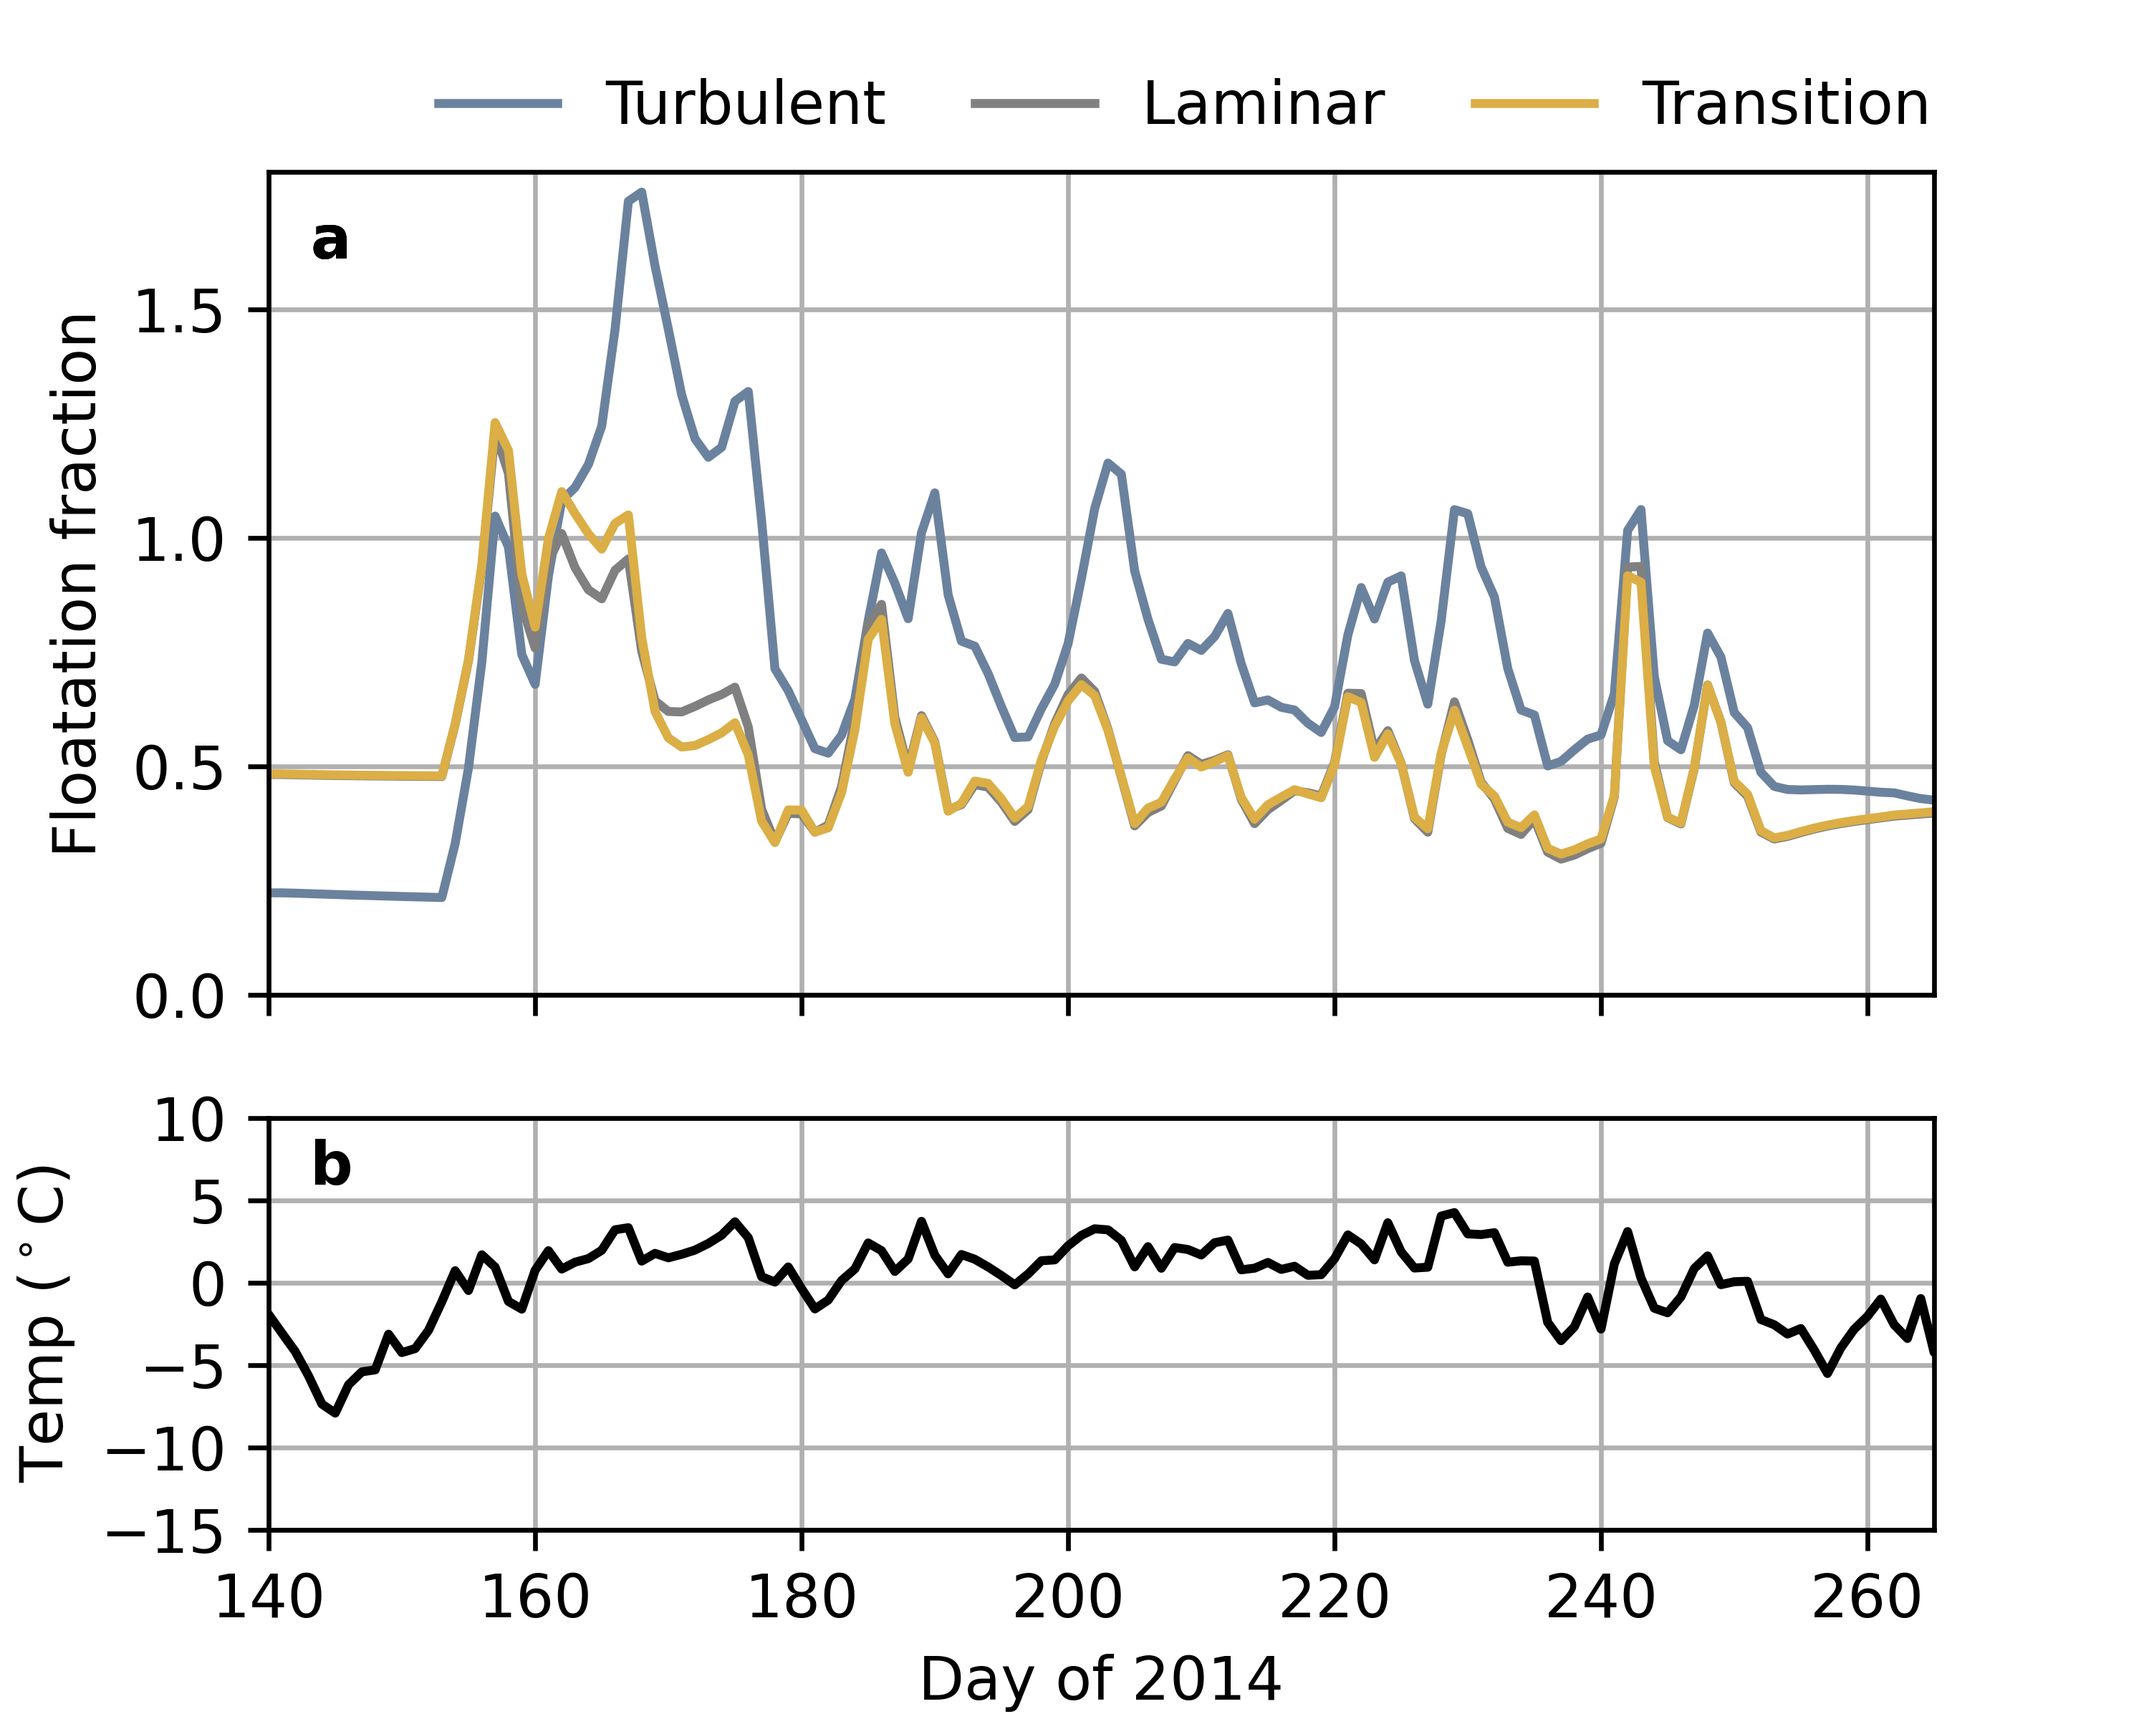
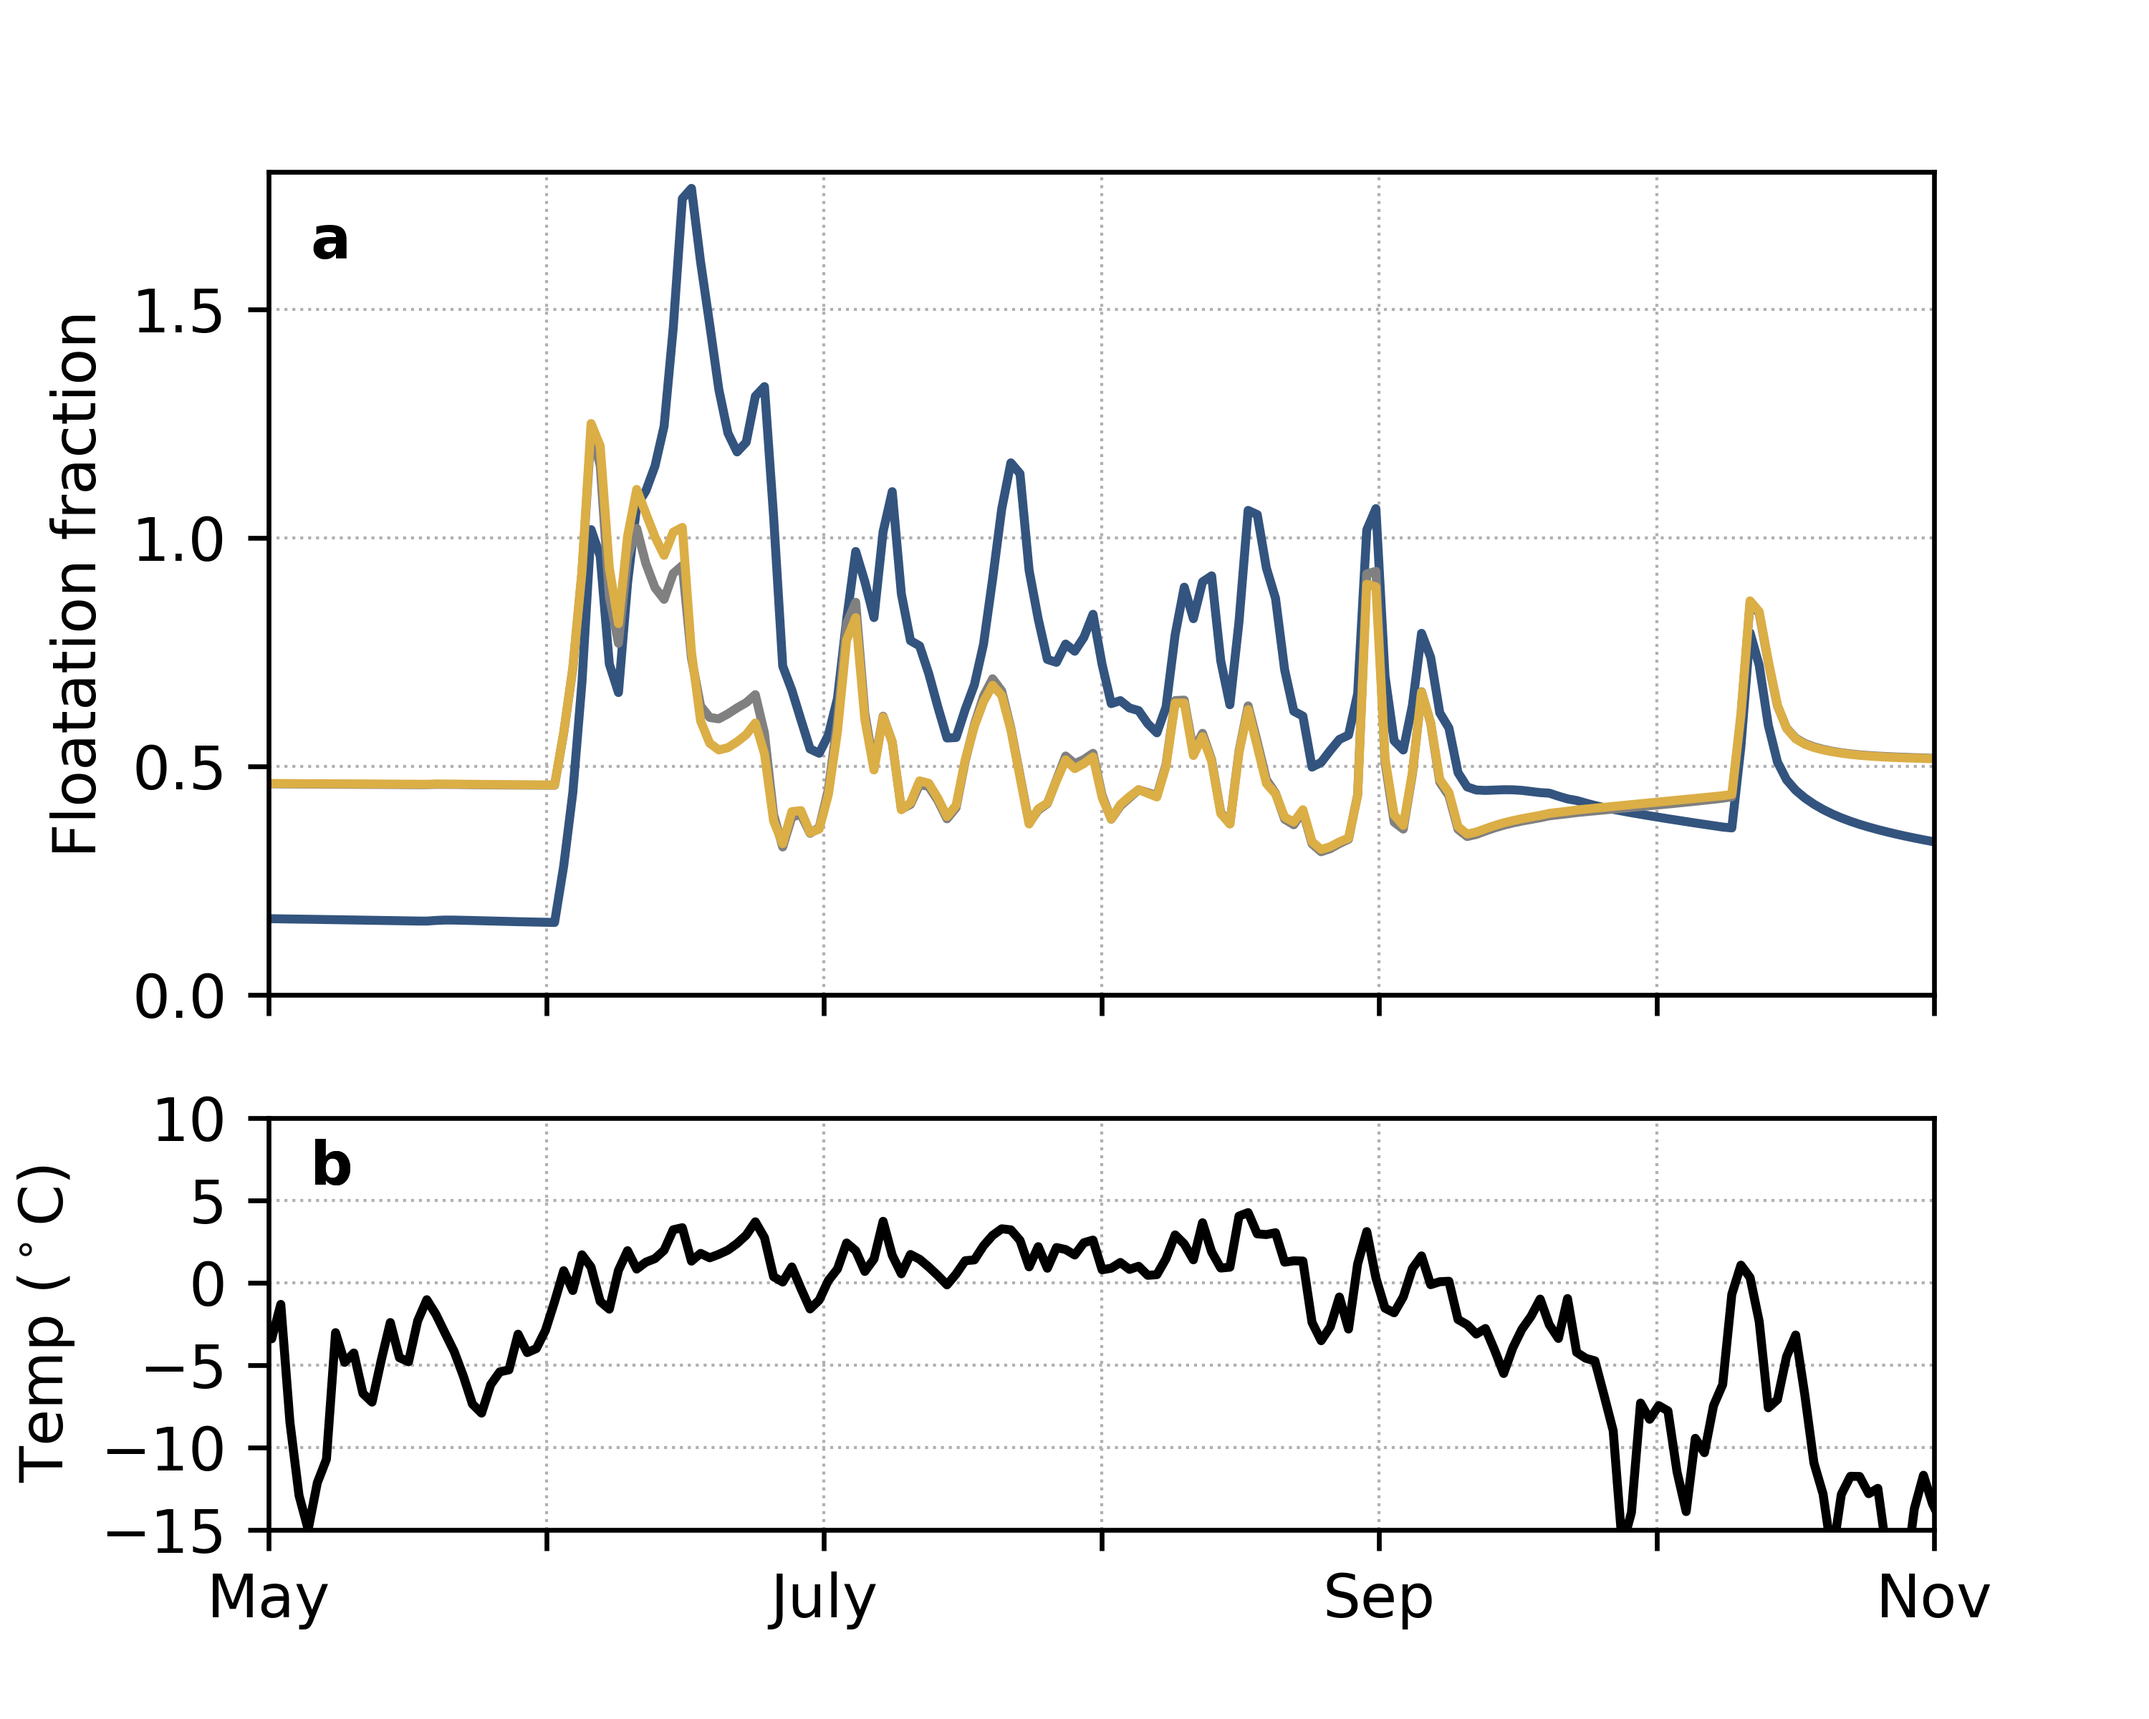
Intermediate figures

diff --git a/analysis/EASC_research_day/plot_simple_timeseries.py b/analysis/EASC_research_day/plot_simple_timeseries.py
@@ -30,7 +30,8 @@ gs_kwargs=dict(wspace=0.05, hspace=0.2,
         height_ratios=(2, 1), top=0.9)
 
 labels = ['Turbulent', 'Laminar', 'Transition']
-colors = np.array([[0.420, 0.510, 0.620, 1],
+colors = np.array([#[0.420, 0.510, 0.620, 1],
+                    [51/256, 84/256, 126/256, 1],
                 #    [0.579, 0.677, 0.781, 1],
                    [0.500, 0.500, 0.500, 1],
                    [0.859, 0.683, 0.275, 1],
@@ -133,11 +134,37 @@ def plot_pressure_maps_timeseries(fnames, figname, tslice=182,
 
     alphabet = ['a', 'b']
     text_args = {'fontweight':'bold'}
+    
+    tt = np.arange(0, 2, 1/365)
+    melt = temp_fun(tt)
+    ax_right = axs[-1]
+    ax_right.plot(tt, melt, color='k')
+    
+    ax_right.set_ylabel(r'Temp ($^\circ{\rm{C}}$)')
+    ax_right.set_ylim([-15, 10])
+    ax_right.set_yticks([-15, -10, -5, 0, 5, 10])
 
-    # Start reading the data
+    ax_right.text(0.025, 0.95, alphabet[1], transform=ax_right.transAxes,
+            va='top', ha='left', **text_args)
+    axs[0].legend(bbox_to_anchor=[0.1, 1.04, 0.9, 0.102], loc='lower left',
+        ncol=3, mode='expand', borderaxespad=0.05, frameon=False, borderpad=0)
+
+    for j in range(2):
+        axi = axs[j]
+
+        axi.grid(linestyle=':', linewidth=0.5)
+        axi.set_xlim(t_lim)
+        axi.set_xticks(t_ticks)
+        axi.set_xticklabels(t_ticklabels)
+        axi.text(0.025, 0.95, alphabet[j], transform=axi.transAxes,
+            va='top', ha='left', **text_args)
+
+    axs[0].set_xticklabels([])
+    axs[0].set_ylabel('Floatation fraction')
+    axs[0].set_ylim([0, 1.8])
+
     for ii in range(n_cases):
         fname = fnames[ii]
-        print(fname)
 
         out = nc.Dataset(fname, 'r')
 
@@ -162,46 +189,25 @@ def plot_pressure_maps_timeseries(fnames, figname, tslice=182,
         f_lower = np.quantile(ff[node_mask, :], 0.025, axis=0)
         f_upper = np.quantile(ff[node_mask, :], 0.975, axis=0)
         timeax = axs[0]
-        timeax.plot(tt*365, f_mean, label=labels[ii], color=colors[ii])#, linewidth=1)
+        timeax.plot(tt, f_mean, label=labels[ii], color=colors[ii])#, linewidth=1)
 
-        timeax.text(0.025, 0.95, alphabet[0], transform=timeax.transAxes,
-            va='top', ha='left', **text_args)
+#        timeax.text(0.025, 0.95, alphabet[0], transform=timeax.transAxes,
+#            va='top', ha='left', **text_args)
 
-        timeax.set_ylim([0, 1.8])
 
         out.close()
+        fig.savefig(figname.replace('.png', '_%03d.png' % ii))
 
-    melt = temp_fun(tt)
-    ax_right = axs[-1]
-    ax_right.plot(tt*365, melt, color='k')
-    
-    ax_right.set_ylabel(r'Temp ($^\circ{\rm{C}}$)')
-    ax_right.set_ylim([-15, 10])
-    ax_right.set_yticks([-15, -10, -5, 0, 5, 10])
-
-    ax_right.text(0.025, 0.95, alphabet[1], transform=ax_right.transAxes,
-            va='top', ha='left', **text_args)
-    axs[0].legend(bbox_to_anchor=[0.1, 1.04, 0.9, 0.102], loc='lower left',
-        ncol=3, mode='expand', borderaxespad=0.05, frameon=False, borderpad=0)
-
-    for j in range(2):
-        axi = axs[j]
-
-        axi.grid()
-        axi.set_xlim(t_lim)
-
-    axs[0].set_xticklabels([])
-    axs[0].set_ylabel('Floatation fraction')
-    axs[1].set_xlabel('Day of 2014')
+    # axs[1].set_xlabel('Day of 2014')
     fig.savefig(figname, dpi=600)
     return fig
 
 
 if __name__ == '__main__':
-    # t_ticks = [1 + 4/12, 1 + 6/12, 1 + 8/12, 1 + 10/12]
-    # t_ticklabels = ['4', '6', '8', '10']
-    # t_lim = [t_ticks[0], t_ticks[-1]]
-    t_lim = [140, 265]
+#    t_ticks = [1 + 4/12, 1 + 6/12, 1 + 8/12, 1 + 10/12]
+    t_ticks = 1 + np.array([4, 5, 6, 7, 8, 9, 10])/12
+    t_ticklabels = ['May', '', 'July', '', 'Sep', '', 'Nov']
+    t_lim = [t_ticks[0], t_ticks[-1]]
     t_xlabel = 'Day of year'
 
     ## Case 01: Flat topo, KAN_L forcing
@@ -213,5 +219,5 @@ if __name__ == '__main__':
     fnames = [pattern % caseid for caseid in cases]
     figname = '01_pressure_simple.png'
     fig_01 = plot_pressure_maps_timeseries(fnames, figname, tslice=KAN_tslice, Qmin=1, melt_forcing='KAN',
-        t_xlabel=t_xlabel, t_lim=t_lim)
+        t_xlabel=t_xlabel, t_lim=t_lim, t_ticklabels=t_ticklabels, t_ticks=t_ticks)
     plt.show()
